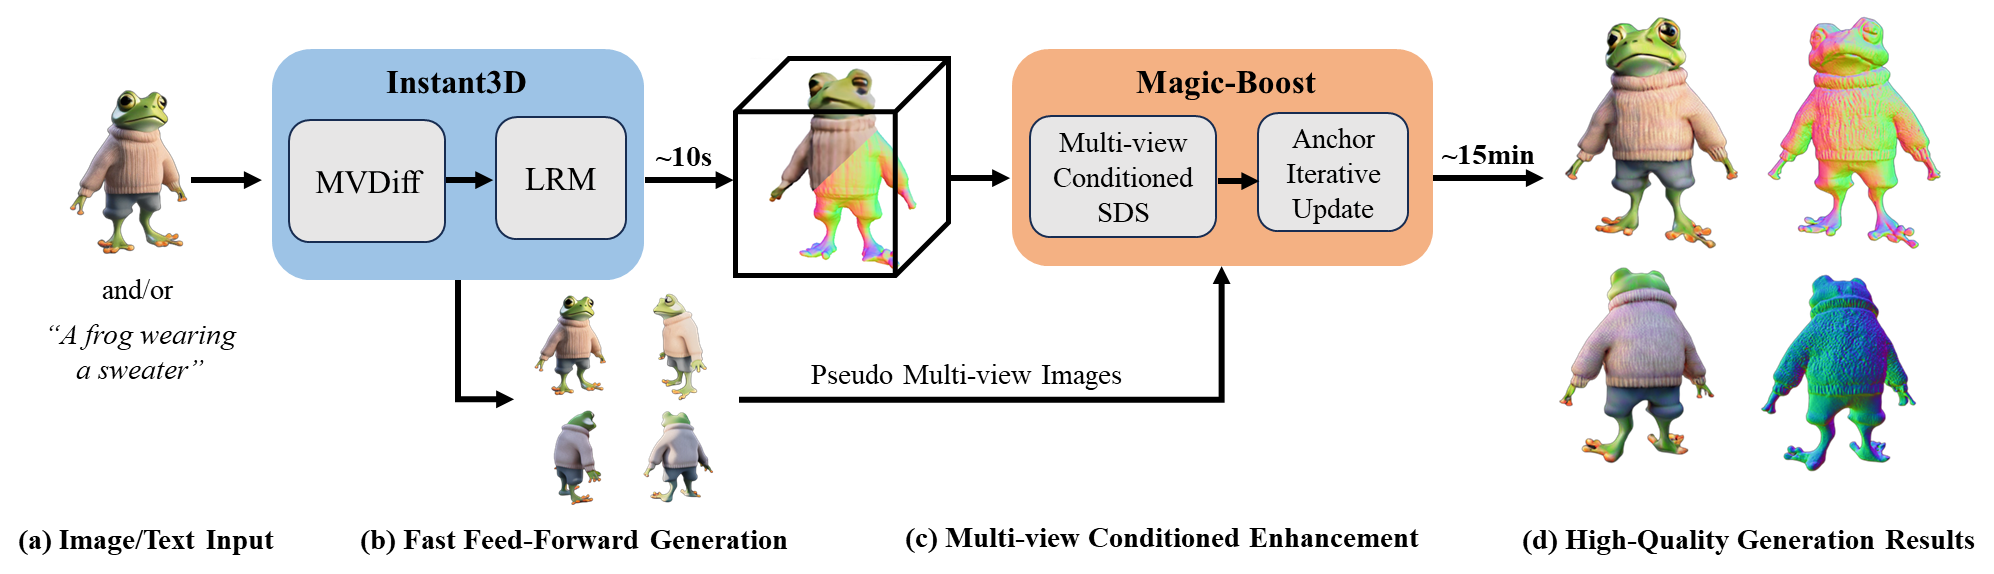
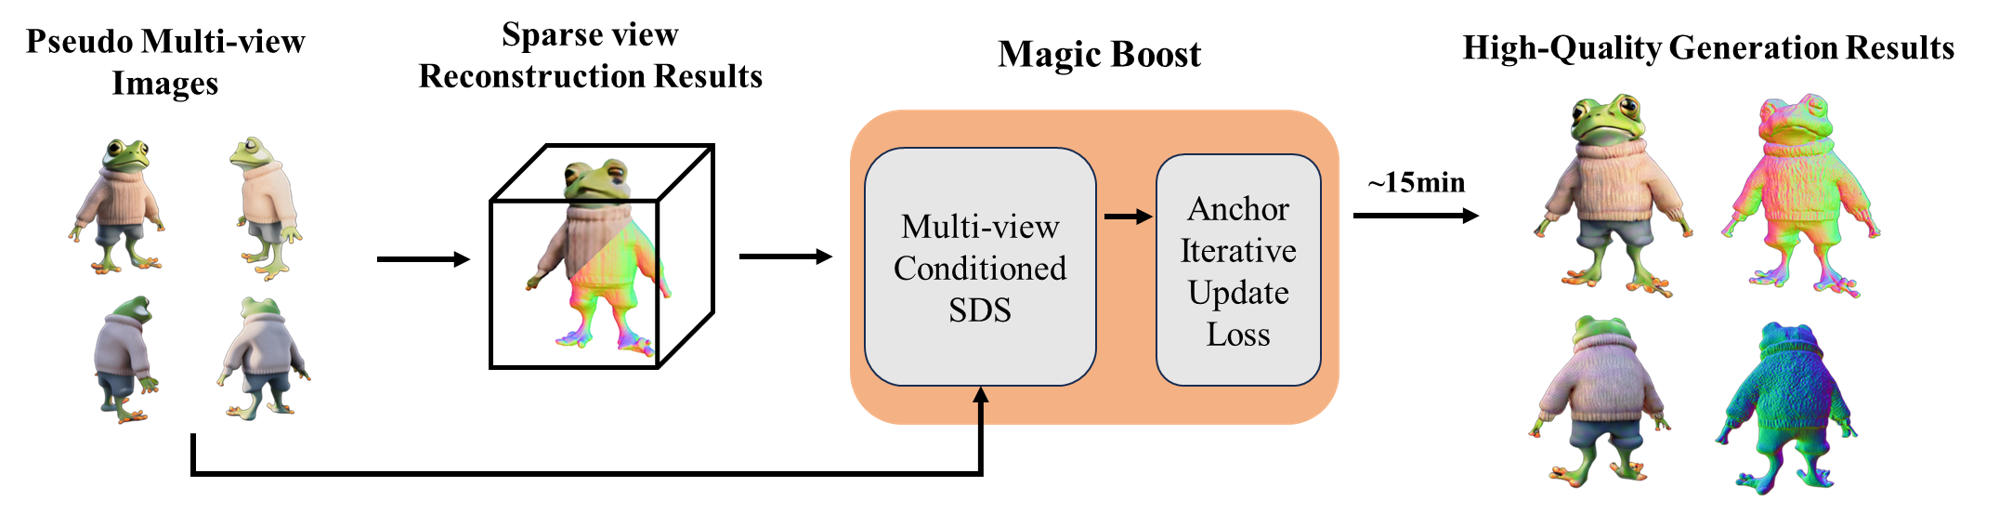
update

diff --git a/index.html b/index.html
@@ -64,38 +64,16 @@
 
         <h1>Abstract</h1>
         <p style="width: 80%;text-align: justify">
-            Benefiting from the rapid development of 2D diffusion models,
-            3D content creation has made significant progress recently. 
-            One promising solution involves the fine-tuning of pre-trained 
-            2D diffusion models to harness their capacity for producing 
-            multi-view images, which are then lifted into accurate 3D models 
-            via methods like fast-NeRFs or large reconstruction models. 
-            However, as inconsistency still exists and limited generated resolution, 
-            the generation results of such methods still lack intricate textures and 
-            complex geometries. To solve this problem, we propose Magic-Boost, 
-            a multi-view conditioned diffusion model that significantly refines
-            coarse generative results through a brief period of SDS optimization 
-            (~15min).  Compared to the previous text or single image based diffusion
-            models, Magic-Boost exhibits a robust capability to generate images with
-            high consistency from pseudo synthesized multi-view images. It provides 
-            precise SDS guidance that aligns with the identity of the input images, 
-            thereby enriching the local detail in both geometry and texture of the 
-            initial generative results. Extensive experiments show Magic-Boost greatly 
-            enhances the coarse inputs and generates high-quality 3D assets with rich
-            geometric and textural details.
+            Benefiting from the rapid development of 2D diffusion models, 3D content creation has made significant progress recently. One promising solution involves the fine-tuning of pre-trained 2D diffusion models to harness their capacity for producing multi-view images, which are then lifted into accurate 3D models via sparse-view reconstruction methods like large reconstruction models. However, as inconsistency still exists and limited reconstruction resolution, the generation results of such methods still lack intricate textures and complex geometries. In this paper, we present Magic-Boost, a multi-view conditioned diffusion model that explores the strong 3d prior provided by the synthesized multi-view images to refine the coarse generated results. Enabled with pseudo multi-view images, Magic-Boost provides precise SDS guidance that well aligns with the identity of the input images, enriching the local detail in both geometry and texture within a short period of optimization ($\sim15$min). Extensive experiments show Magic-Boost greatly enhances the coarse generated inputs, generates high-quality 3D assets with rich geometric and textural details.
             <br>
             <br>
         </p>
         <div class="img-with-text">
-            <img width="800" src="./demos/show.png">
+            <img width="800" src="./demos/teaser.png">
         </div>
         <div class="content has-text-justified">
         <p style="width: 750;text-align: justify;">
-            <b>Figure 1.</b> Provided with an input image and its  coarse 3D generation, MagicBoost  
-            effectively boosts it to a high-quality 3D asset within 15 minutes. 
-            From left to right, we show the input image, pesudo multi-view images and coarse 
-            3D results from Instant3D, together with the significantly improved results
-            produced by our method.
+            <b>Figure 1.</b> Provided with the strong 3D prior from the pesudo multi-view images, Magic-Boost effectively boosts the coarse reconstruction results into a high-quality 3D asset within 15 minutes.
         </p>
         </div>
         <p></p>
@@ -320,11 +298,8 @@
         <h1>Method</h1>
 
         <p style="width: 80%;text-align: justify">
-            <b>The overall pipeline of our method. </b>We build MagicBoost with Instant3D
-            (a synergy of Multi-view Diffusion (MVDiff) and Large Reconstruction Model (LRM)),
-            which provides pseudo multi-view images together with a coarse 3D output. 
-            Conditioned on the generated multi-view inputs, our model provides precise
-            SDS guidance, significantly augmenting the coarse 3D outputs within a brief interval (~15min).
+            <b>The overall pipeline. The proposed Magic-Boost could be a plug-in module plugged into any 3D generation methods capable of providing
+                pseudo multi-view priors, such as Instant3D, InstantMesh, LGM and etc. Benefit from the strong 3d priors provided by the pesudo multi-view images, Magic-boost provides precise SDS guidance, significantly enhancing the coarse 3D outputs within a brief interval (~15min).
         </p>
         <div class="img-with-text">
             <img width="900" src="./demos/pipeline.png" />
